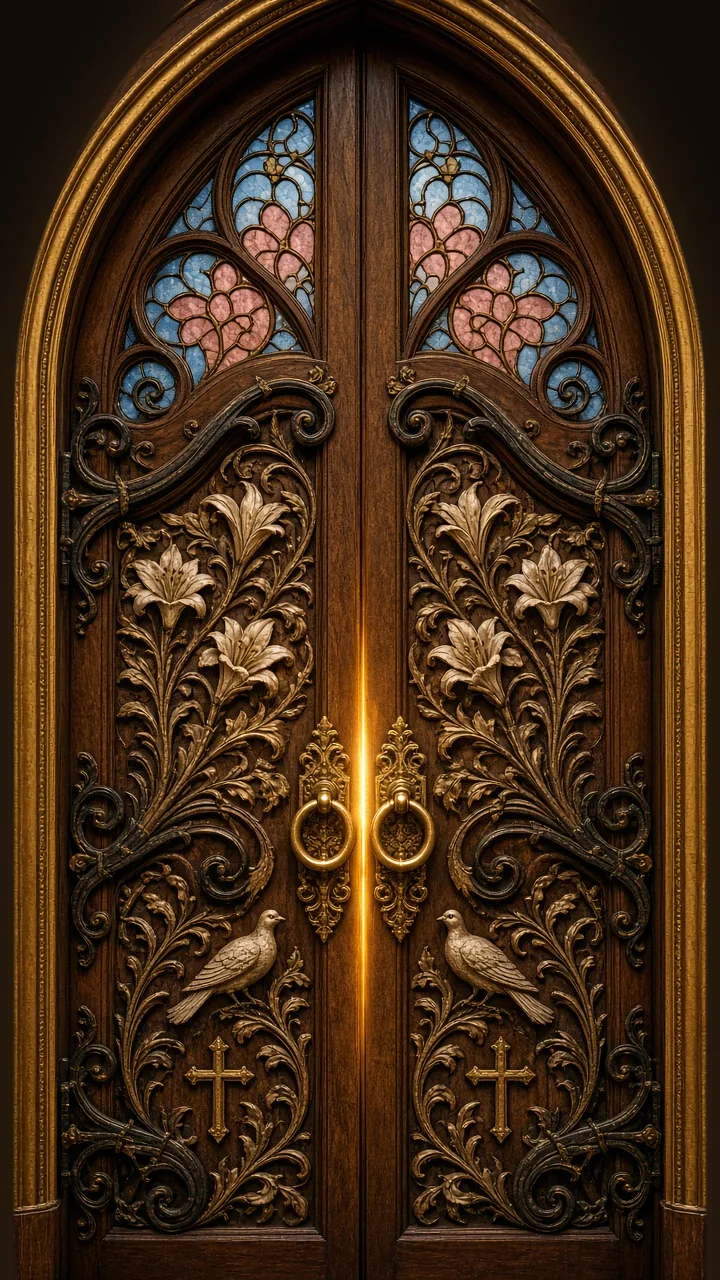
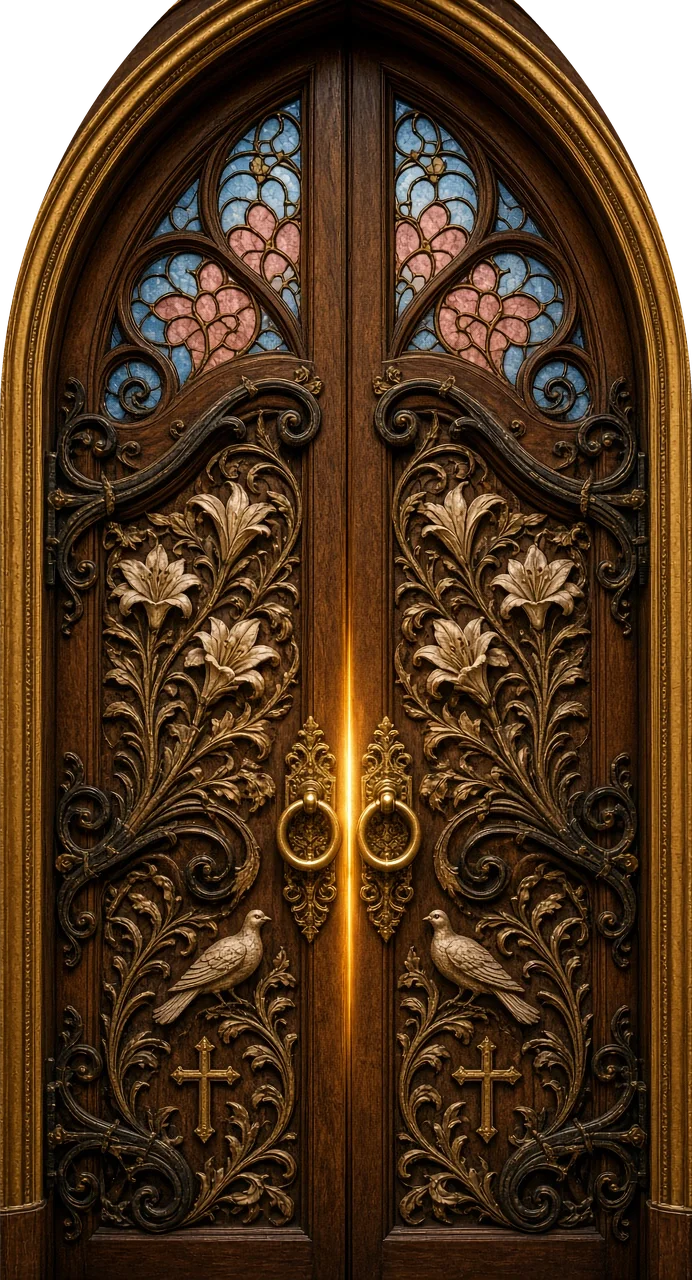
cuoi/duclong-anhnguyet: transparent arch-cut door on ivory, faster WAAPI open/zoom (~1.4s)

diff --git a/cuoi/duclong-anhnguyet/nha-trai/index.html b/cuoi/duclong-anhnguyet/nha-trai/index.html
@@ -100,16 +100,20 @@ body:before{content:"";position:fixed;inset:0;pointer-events:none;z-index:1;opac
 @keyframes gfl{0%{opacity:0}40%{opacity:1}100%{opacity:0}}
 
 /* photo portal gate */
-#gate{background:#0b0805 url(../img/door-b.webp) center/cover}
+#gate{background:radial-gradient(ellipse at 50% 45%,#fffdf8,var(--ivory) 60%,#f3ead9)}
+#gate:before{display:none}
+.gate-ui:before{display:none}
+.gate-ui{left:50%;right:auto;width:min(calc(94vh*692/1280),94vw);transform:translateX(-50%);bottom:calc(50vh - min(47vh,calc(47vw*1280/692)) + 3vh)}
+.gate-ui .names{font-size:clamp(2rem,min(10vw,5.2vh),3.6rem)!important}
+.dscene:before{content:"";position:absolute;left:6%;right:6%;bottom:-1.2%;height:3.5%;border-radius:50%;background:radial-gradient(ellipse,rgba(70,45,15,.35),transparent 70%);filter:blur(6px)}
 .cam{transform-origin:50% 50%}
-.dscene{position:absolute;top:0;left:50%;height:100%;aspect-ratio:9/16;transform:translateX(-50%);min-width:100%;}
-@media (min-aspect-ratio:9/16){.dscene{min-width:0}}
+.dscene{position:absolute;top:50%;left:50%;height:min(94%,calc(94vw*1280/692));aspect-ratio:692/1280;transform:translate(-50%,-50%)}
 .dimg{position:absolute;inset:0;width:100%;height:100%;object-fit:cover;object-position:50% 66%}
 .ddoor{position:absolute;left:0;width:100%;top:0;height:100%;perspective:1400px;perspective-origin:50% 50%}
-.dinside{position:absolute;inset:0;overflow:hidden;background:#3a2612}
+.dinside{position:absolute;inset:0;overflow:hidden;background:#3a2612;-webkit-mask:url(../img/door.webp) center/100% 100%;mask:url(../img/door.webp) center/100% 100%}
 .dinside img{width:100%;height:100%;object-fit:cover;transform:scale(1.15);transition:transform 2.6s cubic-bezier(.5,0,.3,1)}
 .dglow{position:absolute;inset:0;background:radial-gradient(ellipse 70% 60% at 50% 55%,rgba(255,236,190,.95),rgba(255,200,120,.55) 45%,rgba(120,70,20,.2) 100%);opacity:.9;transition:opacity 2s}
-.dleaf{position:absolute;top:0;bottom:0;width:50%;background-image:url(../img/door.webp);background-size:200% 100%;background-repeat:no-repeat;will-change:transform;backface-visibility:hidden;transition:transform 1.9s cubic-bezier(.55,.02,.2,1);box-shadow:inset 0 0 18px rgba(0,0,0,.35)}
+.dleaf{position:absolute;top:0;bottom:0;width:50%;background-image:url(../img/door.webp);background-size:200% 100%;background-repeat:no-repeat;will-change:transform;backface-visibility:hidden;transition:transform 1.9s cubic-bezier(.55,.02,.2,1)}
 .dleaf.l{left:0;background-position:0 0;transform-origin:0 50%}
 .dleaf.r{right:0;background-position:100% 0;transform-origin:100% 50%;transition-delay:.08s}
 #gate.open .dleaf.l{transform:rotateY(-100deg)}
@@ -832,9 +836,20 @@ for(let i=0;i<6;i++){const d=document.createElement('div');d.className='dove';d.
 for(let i=0;i<28;i++){const p=document.createElement('div');p.className='gpet';const a=Math.random()*Math.PI*2,R=30+Math.random()*45;p.style.setProperty('--dx',Math.cos(a)*R+'vw');p.style.setProperty('--dy',(Math.sin(a)*R-10)+'vh');p.style.setProperty('--r',(Math.random()*720-360)+'deg');p.style.animationDelay=(.5+Math.random()*.6)+'s';if(i%3==0)p.style.background='linear-gradient(135deg,#fff3c4,#d9b86a)';gfx.appendChild(p)}
 // cinematic open
 const g=document.getElementById('gate'),fl=document.getElementById('gflash');let T=[],done=false;
-function finish(){if(done)return;done=true;T.forEach(clearTimeout);fl.classList.remove('on');void fl.offsetWidth;fl.classList.add('on');setTimeout(()=>{g.classList.add('gone');startStory();setTimeout(()=>{run=false},800)},380)}
-window.openGate=function(){if(g.classList.contains('open')){finish();return}g.classList.add('open');try{window._mFirst=1;if(!mOn)toggleMusic(true)}catch(e){}asUser=false;boost=1;
-T.push(setTimeout(()=>g.classList.add('dolly'),1150));T.push(setTimeout(finish,3300))};
+function finish(){if(done)return;done=true;g.classList.add('gone');startStory();setTimeout(()=>{run=false},800);
+ if(fl.animate){fl.style.opacity=1;fl.animate([{opacity:1},{opacity:0}],{duration:450,easing:'ease-out',fill:'forwards'}).onfinish=()=>{fl.style.opacity=0}}}
+[document.querySelector('.dimg'),document.querySelector('.dinside img')].forEach(im=>{try{im&&im.decode&&im.decode().catch(()=>{})}catch(e){}});
+window.openGate=function(){if(g.classList.contains('open')){finish();return}
+ try{window._mFirst=1;if(!mOn)toggleMusic(true)}catch(e){}
+ g.classList.add('open');asUser=false;boost=1;
+ const cam=g.querySelector('.cam'),L=g.querySelector('.dleaf.l'),R=g.querySelector('.dleaf.r');
+ if(!cam.animate){g.classList.add('dolly');setTimeout(finish,1500);return}
+ [cam,L,R].forEach(e=>e.style.willChange='transform');
+ const le={duration:900,easing:'cubic-bezier(.65,0,.35,1)',fill:'forwards'};
+ L.animate([{transform:'translateZ(0) rotateY(0)'},{transform:'translateZ(0) rotateY(-100deg)'}],le);
+ R.animate([{transform:'translateZ(0) rotateY(0)'},{transform:'translateZ(0) rotateY(100deg)'}],le);
+ cam.animate([{transform:'translateZ(0) scale(1)'},{transform:'translateZ(0) scale(4.2)'}],{delay:250,duration:1100,easing:'ease-in-out',fill:'forwards'});
+ fl.animate([{opacity:0},{opacity:1}],{delay:1050,duration:350,easing:'ease-in',fill:'forwards'}).onfinish=finish};
 g.addEventListener('click',e=>{if(g.classList.contains('open'))finish()});
 })();
 

diff --git a/cuoi/duclong-anhnguyet/nha-gai/index.html b/cuoi/duclong-anhnguyet/nha-gai/index.html
@@ -99,16 +99,20 @@ body:before{content:"";position:fixed;inset:0;pointer-events:none;z-index:1;opac
 @keyframes gfl{0%{opacity:0}40%{opacity:1}100%{opacity:0}}
 
 /* photo portal gate */
-#gate{background:#0b0805 url(../img/door-b.webp) center/cover}
+#gate{background:radial-gradient(ellipse at 50% 45%,#fffdf8,var(--ivory) 60%,#f3ead9)}
+#gate:before{display:none}
+.gate-ui:before{display:none}
+.gate-ui{left:50%;right:auto;width:min(calc(94vh*692/1280),94vw);transform:translateX(-50%);bottom:calc(50vh - min(47vh,calc(47vw*1280/692)) + 3vh)}
+.gate-ui .names{font-size:clamp(2rem,min(10vw,5.2vh),3.6rem)!important}
+.dscene:before{content:"";position:absolute;left:6%;right:6%;bottom:-1.2%;height:3.5%;border-radius:50%;background:radial-gradient(ellipse,rgba(70,45,15,.35),transparent 70%);filter:blur(6px)}
 .cam{transform-origin:50% 50%}
-.dscene{position:absolute;top:0;left:50%;height:100%;aspect-ratio:9/16;transform:translateX(-50%);min-width:100%;}
-@media (min-aspect-ratio:9/16){.dscene{min-width:0}}
+.dscene{position:absolute;top:50%;left:50%;height:min(94%,calc(94vw*1280/692));aspect-ratio:692/1280;transform:translate(-50%,-50%)}
 .dimg{position:absolute;inset:0;width:100%;height:100%;object-fit:cover;object-position:50% 66%}
 .ddoor{position:absolute;left:0;width:100%;top:0;height:100%;perspective:1400px;perspective-origin:50% 50%}
-.dinside{position:absolute;inset:0;overflow:hidden;background:#3a2612}
+.dinside{position:absolute;inset:0;overflow:hidden;background:#3a2612;-webkit-mask:url(../img/door.webp) center/100% 100%;mask:url(../img/door.webp) center/100% 100%}
 .dinside img{width:100%;height:100%;object-fit:cover;transform:scale(1.15);transition:transform 2.6s cubic-bezier(.5,0,.3,1)}
 .dglow{position:absolute;inset:0;background:radial-gradient(ellipse 70% 60% at 50% 55%,rgba(255,236,190,.95),rgba(255,200,120,.55) 45%,rgba(120,70,20,.2) 100%);opacity:.9;transition:opacity 2s}
-.dleaf{position:absolute;top:0;bottom:0;width:50%;background-image:url(../img/door.webp);background-size:200% 100%;background-repeat:no-repeat;will-change:transform;backface-visibility:hidden;transition:transform 1.9s cubic-bezier(.55,.02,.2,1);box-shadow:inset 0 0 18px rgba(0,0,0,.35)}
+.dleaf{position:absolute;top:0;bottom:0;width:50%;background-image:url(../img/door.webp);background-size:200% 100%;background-repeat:no-repeat;will-change:transform;backface-visibility:hidden;transition:transform 1.9s cubic-bezier(.55,.02,.2,1)}
 .dleaf.l{left:0;background-position:0 0;transform-origin:0 50%}
 .dleaf.r{right:0;background-position:100% 0;transform-origin:100% 50%;transition-delay:.08s}
 #gate.open .dleaf.l{transform:rotateY(-100deg)}
@@ -831,9 +835,20 @@ for(let i=0;i<6;i++){const d=document.createElement('div');d.className='dove';d.
 for(let i=0;i<28;i++){const p=document.createElement('div');p.className='gpet';const a=Math.random()*Math.PI*2,R=30+Math.random()*45;p.style.setProperty('--dx',Math.cos(a)*R+'vw');p.style.setProperty('--dy',(Math.sin(a)*R-10)+'vh');p.style.setProperty('--r',(Math.random()*720-360)+'deg');p.style.animationDelay=(.5+Math.random()*.6)+'s';if(i%3==0)p.style.background='linear-gradient(135deg,#fff3c4,#d9b86a)';gfx.appendChild(p)}
 // cinematic open
 const g=document.getElementById('gate'),fl=document.getElementById('gflash');let T=[],done=false;
-function finish(){if(done)return;done=true;T.forEach(clearTimeout);fl.classList.remove('on');void fl.offsetWidth;fl.classList.add('on');setTimeout(()=>{g.classList.add('gone');startStory();setTimeout(()=>{run=false},800)},380)}
-window.openGate=function(){if(g.classList.contains('open')){finish();return}g.classList.add('open');try{window._mFirst=1;if(!mOn)toggleMusic(true)}catch(e){}asUser=false;boost=1;
-T.push(setTimeout(()=>g.classList.add('dolly'),1150));T.push(setTimeout(finish,3300))};
+function finish(){if(done)return;done=true;g.classList.add('gone');startStory();setTimeout(()=>{run=false},800);
+ if(fl.animate){fl.style.opacity=1;fl.animate([{opacity:1},{opacity:0}],{duration:450,easing:'ease-out',fill:'forwards'}).onfinish=()=>{fl.style.opacity=0}}}
+[document.querySelector('.dimg'),document.querySelector('.dinside img')].forEach(im=>{try{im&&im.decode&&im.decode().catch(()=>{})}catch(e){}});
+window.openGate=function(){if(g.classList.contains('open')){finish();return}
+ try{window._mFirst=1;if(!mOn)toggleMusic(true)}catch(e){}
+ g.classList.add('open');asUser=false;boost=1;
+ const cam=g.querySelector('.cam'),L=g.querySelector('.dleaf.l'),R=g.querySelector('.dleaf.r');
+ if(!cam.animate){g.classList.add('dolly');setTimeout(finish,1500);return}
+ [cam,L,R].forEach(e=>e.style.willChange='transform');
+ const le={duration:900,easing:'cubic-bezier(.65,0,.35,1)',fill:'forwards'};
+ L.animate([{transform:'translateZ(0) rotateY(0)'},{transform:'translateZ(0) rotateY(-100deg)'}],le);
+ R.animate([{transform:'translateZ(0) rotateY(0)'},{transform:'translateZ(0) rotateY(100deg)'}],le);
+ cam.animate([{transform:'translateZ(0) scale(1)'},{transform:'translateZ(0) scale(4.2)'}],{delay:250,duration:1100,easing:'ease-in-out',fill:'forwards'});
+ fl.animate([{opacity:0},{opacity:1}],{delay:1050,duration:350,easing:'ease-in',fill:'forwards'}).onfinish=finish};
 g.addEventListener('click',e=>{if(g.classList.contains('open'))finish()});
 })();
 

diff --git a/cuoi/duclong-anhnguyet/_src/template.html b/cuoi/duclong-anhnguyet/_src/template.html
@@ -99,16 +99,20 @@ body:before{content:"";position:fixed;inset:0;pointer-events:none;z-index:1;opac
 @keyframes gfl{0%{opacity:0}40%{opacity:1}100%{opacity:0}}
 
 /* photo portal gate */
-#gate{background:#0b0805 url(img/door-b.webp) center/cover}
+#gate{background:radial-gradient(ellipse at 50% 45%,#fffdf8,var(--ivory) 60%,#f3ead9)}
+#gate:before{display:none}
+.gate-ui:before{display:none}
+.gate-ui{left:50%;right:auto;width:min(calc(94vh*692/1280),94vw);transform:translateX(-50%);bottom:calc(50vh - min(47vh,calc(47vw*1280/692)) + 3vh)}
+.gate-ui .names{font-size:clamp(2rem,min(10vw,5.2vh),3.6rem)!important}
+.dscene:before{content:"";position:absolute;left:6%;right:6%;bottom:-1.2%;height:3.5%;border-radius:50%;background:radial-gradient(ellipse,rgba(70,45,15,.35),transparent 70%);filter:blur(6px)}
 .cam{transform-origin:50% 50%}
-.dscene{position:absolute;top:0;left:50%;height:100%;aspect-ratio:9/16;transform:translateX(-50%);min-width:100%;}
-@media (min-aspect-ratio:9/16){.dscene{min-width:0}}
+.dscene{position:absolute;top:50%;left:50%;height:min(94%,calc(94vw*1280/692));aspect-ratio:692/1280;transform:translate(-50%,-50%)}
 .dimg{position:absolute;inset:0;width:100%;height:100%;object-fit:cover;object-position:50% 66%}
 .ddoor{position:absolute;left:0;width:100%;top:0;height:100%;perspective:1400px;perspective-origin:50% 50%}
-.dinside{position:absolute;inset:0;overflow:hidden;background:#3a2612}
+.dinside{position:absolute;inset:0;overflow:hidden;background:#3a2612;-webkit-mask:url(img/door.webp) center/100% 100%;mask:url(img/door.webp) center/100% 100%}
 .dinside img{width:100%;height:100%;object-fit:cover;transform:scale(1.15);transition:transform 2.6s cubic-bezier(.5,0,.3,1)}
 .dglow{position:absolute;inset:0;background:radial-gradient(ellipse 70% 60% at 50% 55%,rgba(255,236,190,.95),rgba(255,200,120,.55) 45%,rgba(120,70,20,.2) 100%);opacity:.9;transition:opacity 2s}
-.dleaf{position:absolute;top:0;bottom:0;width:50%;background-image:url(img/door.webp);background-size:200% 100%;background-repeat:no-repeat;will-change:transform;backface-visibility:hidden;transition:transform 1.9s cubic-bezier(.55,.02,.2,1);box-shadow:inset 0 0 18px rgba(0,0,0,.35)}
+.dleaf{position:absolute;top:0;bottom:0;width:50%;background-image:url(img/door.webp);background-size:200% 100%;background-repeat:no-repeat;will-change:transform;backface-visibility:hidden;transition:transform 1.9s cubic-bezier(.55,.02,.2,1)}
 .dleaf.l{left:0;background-position:0 0;transform-origin:0 50%}
 .dleaf.r{right:0;background-position:100% 0;transform-origin:100% 50%;transition-delay:.08s}
 #gate.open .dleaf.l{transform:rotateY(-100deg)}
@@ -831,9 +835,20 @@ for(let i=0;i<6;i++){const d=document.createElement('div');d.className='dove';d.
 for(let i=0;i<28;i++){const p=document.createElement('div');p.className='gpet';const a=Math.random()*Math.PI*2,R=30+Math.random()*45;p.style.setProperty('--dx',Math.cos(a)*R+'vw');p.style.setProperty('--dy',(Math.sin(a)*R-10)+'vh');p.style.setProperty('--r',(Math.random()*720-360)+'deg');p.style.animationDelay=(.5+Math.random()*.6)+'s';if(i%3==0)p.style.background='linear-gradient(135deg,#fff3c4,#d9b86a)';gfx.appendChild(p)}
 // cinematic open
 const g=document.getElementById('gate'),fl=document.getElementById('gflash');let T=[],done=false;
-function finish(){if(done)return;done=true;T.forEach(clearTimeout);fl.classList.remove('on');void fl.offsetWidth;fl.classList.add('on');setTimeout(()=>{g.classList.add('gone');startStory();setTimeout(()=>{run=false},800)},380)}
-window.openGate=function(){if(g.classList.contains('open')){finish();return}g.classList.add('open');try{window._mFirst=1;if(!mOn)toggleMusic(true)}catch(e){}asUser=false;boost=1;
-T.push(setTimeout(()=>g.classList.add('dolly'),1150));T.push(setTimeout(finish,3300))};
+function finish(){if(done)return;done=true;g.classList.add('gone');startStory();setTimeout(()=>{run=false},800);
+ if(fl.animate){fl.style.opacity=1;fl.animate([{opacity:1},{opacity:0}],{duration:450,easing:'ease-out',fill:'forwards'}).onfinish=()=>{fl.style.opacity=0}}}
+[document.querySelector('.dimg'),document.querySelector('.dinside img')].forEach(im=>{try{im&&im.decode&&im.decode().catch(()=>{})}catch(e){}});
+window.openGate=function(){if(g.classList.contains('open')){finish();return}
+ try{window._mFirst=1;if(!mOn)toggleMusic(true)}catch(e){}
+ g.classList.add('open');asUser=false;boost=1;
+ const cam=g.querySelector('.cam'),L=g.querySelector('.dleaf.l'),R=g.querySelector('.dleaf.r');
+ if(!cam.animate){g.classList.add('dolly');setTimeout(finish,1500);return}
+ [cam,L,R].forEach(e=>e.style.willChange='transform');
+ const le={duration:900,easing:'cubic-bezier(.65,0,.35,1)',fill:'forwards'};
+ L.animate([{transform:'translateZ(0) rotateY(0)'},{transform:'translateZ(0) rotateY(-100deg)'}],le);
+ R.animate([{transform:'translateZ(0) rotateY(0)'},{transform:'translateZ(0) rotateY(100deg)'}],le);
+ cam.animate([{transform:'translateZ(0) scale(1)'},{transform:'translateZ(0) scale(4.2)'}],{delay:250,duration:1100,easing:'ease-in-out',fill:'forwards'});
+ fl.animate([{opacity:0},{opacity:1}],{delay:1050,duration:350,easing:'ease-in',fill:'forwards'}).onfinish=finish};
 g.addEventListener('click',e=>{if(g.classList.contains('open'))finish()});
 })();
 

diff --git a/cuoi/duclong-anhnguyet/index.html b/cuoi/duclong-anhnguyet/index.html
@@ -99,16 +99,20 @@ body:before{content:"";position:fixed;inset:0;pointer-events:none;z-index:1;opac
 @keyframes gfl{0%{opacity:0}40%{opacity:1}100%{opacity:0}}
 
 /* photo portal gate */
-#gate{background:#0b0805 url(img/door-b.webp) center/cover}
+#gate{background:radial-gradient(ellipse at 50% 45%,#fffdf8,var(--ivory) 60%,#f3ead9)}
+#gate:before{display:none}
+.gate-ui:before{display:none}
+.gate-ui{left:50%;right:auto;width:min(calc(94vh*692/1280),94vw);transform:translateX(-50%);bottom:calc(50vh - min(47vh,calc(47vw*1280/692)) + 3vh)}
+.gate-ui .names{font-size:clamp(2rem,min(10vw,5.2vh),3.6rem)!important}
+.dscene:before{content:"";position:absolute;left:6%;right:6%;bottom:-1.2%;height:3.5%;border-radius:50%;background:radial-gradient(ellipse,rgba(70,45,15,.35),transparent 70%);filter:blur(6px)}
 .cam{transform-origin:50% 50%}
-.dscene{position:absolute;top:0;left:50%;height:100%;aspect-ratio:9/16;transform:translateX(-50%);min-width:100%;}
-@media (min-aspect-ratio:9/16){.dscene{min-width:0}}
+.dscene{position:absolute;top:50%;left:50%;height:min(94%,calc(94vw*1280/692));aspect-ratio:692/1280;transform:translate(-50%,-50%)}
 .dimg{position:absolute;inset:0;width:100%;height:100%;object-fit:cover;object-position:50% 66%}
 .ddoor{position:absolute;left:0;width:100%;top:0;height:100%;perspective:1400px;perspective-origin:50% 50%}
-.dinside{position:absolute;inset:0;overflow:hidden;background:#3a2612}
+.dinside{position:absolute;inset:0;overflow:hidden;background:#3a2612;-webkit-mask:url(img/door.webp) center/100% 100%;mask:url(img/door.webp) center/100% 100%}
 .dinside img{width:100%;height:100%;object-fit:cover;transform:scale(1.15);transition:transform 2.6s cubic-bezier(.5,0,.3,1)}
 .dglow{position:absolute;inset:0;background:radial-gradient(ellipse 70% 60% at 50% 55%,rgba(255,236,190,.95),rgba(255,200,120,.55) 45%,rgba(120,70,20,.2) 100%);opacity:.9;transition:opacity 2s}
-.dleaf{position:absolute;top:0;bottom:0;width:50%;background-image:url(img/door.webp);background-size:200% 100%;background-repeat:no-repeat;will-change:transform;backface-visibility:hidden;transition:transform 1.9s cubic-bezier(.55,.02,.2,1);box-shadow:inset 0 0 18px rgba(0,0,0,.35)}
+.dleaf{position:absolute;top:0;bottom:0;width:50%;background-image:url(img/door.webp);background-size:200% 100%;background-repeat:no-repeat;will-change:transform;backface-visibility:hidden;transition:transform 1.9s cubic-bezier(.55,.02,.2,1)}
 .dleaf.l{left:0;background-position:0 0;transform-origin:0 50%}
 .dleaf.r{right:0;background-position:100% 0;transform-origin:100% 50%;transition-delay:.08s}
 #gate.open .dleaf.l{transform:rotateY(-100deg)}
@@ -831,9 +835,20 @@ for(let i=0;i<6;i++){const d=document.createElement('div');d.className='dove';d.
 for(let i=0;i<28;i++){const p=document.createElement('div');p.className='gpet';const a=Math.random()*Math.PI*2,R=30+Math.random()*45;p.style.setProperty('--dx',Math.cos(a)*R+'vw');p.style.setProperty('--dy',(Math.sin(a)*R-10)+'vh');p.style.setProperty('--r',(Math.random()*720-360)+'deg');p.style.animationDelay=(.5+Math.random()*.6)+'s';if(i%3==0)p.style.background='linear-gradient(135deg,#fff3c4,#d9b86a)';gfx.appendChild(p)}
 // cinematic open
 const g=document.getElementById('gate'),fl=document.getElementById('gflash');let T=[],done=false;
-function finish(){if(done)return;done=true;T.forEach(clearTimeout);fl.classList.remove('on');void fl.offsetWidth;fl.classList.add('on');setTimeout(()=>{g.classList.add('gone');startStory();setTimeout(()=>{run=false},800)},380)}
-window.openGate=function(){if(g.classList.contains('open')){finish();return}g.classList.add('open');try{window._mFirst=1;if(!mOn)toggleMusic(true)}catch(e){}asUser=false;boost=1;
-T.push(setTimeout(()=>g.classList.add('dolly'),1150));T.push(setTimeout(finish,3300))};
+function finish(){if(done)return;done=true;g.classList.add('gone');startStory();setTimeout(()=>{run=false},800);
+ if(fl.animate){fl.style.opacity=1;fl.animate([{opacity:1},{opacity:0}],{duration:450,easing:'ease-out',fill:'forwards'}).onfinish=()=>{fl.style.opacity=0}}}
+[document.querySelector('.dimg'),document.querySelector('.dinside img')].forEach(im=>{try{im&&im.decode&&im.decode().catch(()=>{})}catch(e){}});
+window.openGate=function(){if(g.classList.contains('open')){finish();return}
+ try{window._mFirst=1;if(!mOn)toggleMusic(true)}catch(e){}
+ g.classList.add('open');asUser=false;boost=1;
+ const cam=g.querySelector('.cam'),L=g.querySelector('.dleaf.l'),R=g.querySelector('.dleaf.r');
+ if(!cam.animate){g.classList.add('dolly');setTimeout(finish,1500);return}
+ [cam,L,R].forEach(e=>e.style.willChange='transform');
+ const le={duration:900,easing:'cubic-bezier(.65,0,.35,1)',fill:'forwards'};
+ L.animate([{transform:'translateZ(0) rotateY(0)'},{transform:'translateZ(0) rotateY(-100deg)'}],le);
+ R.animate([{transform:'translateZ(0) rotateY(0)'},{transform:'translateZ(0) rotateY(100deg)'}],le);
+ cam.animate([{transform:'translateZ(0) scale(1)'},{transform:'translateZ(0) scale(4.2)'}],{delay:250,duration:1100,easing:'ease-in-out',fill:'forwards'});
+ fl.animate([{opacity:0},{opacity:1}],{delay:1050,duration:350,easing:'ease-in',fill:'forwards'}).onfinish=finish};
 g.addEventListener('click',e=>{if(g.classList.contains('open'))finish()});
 })();
 
